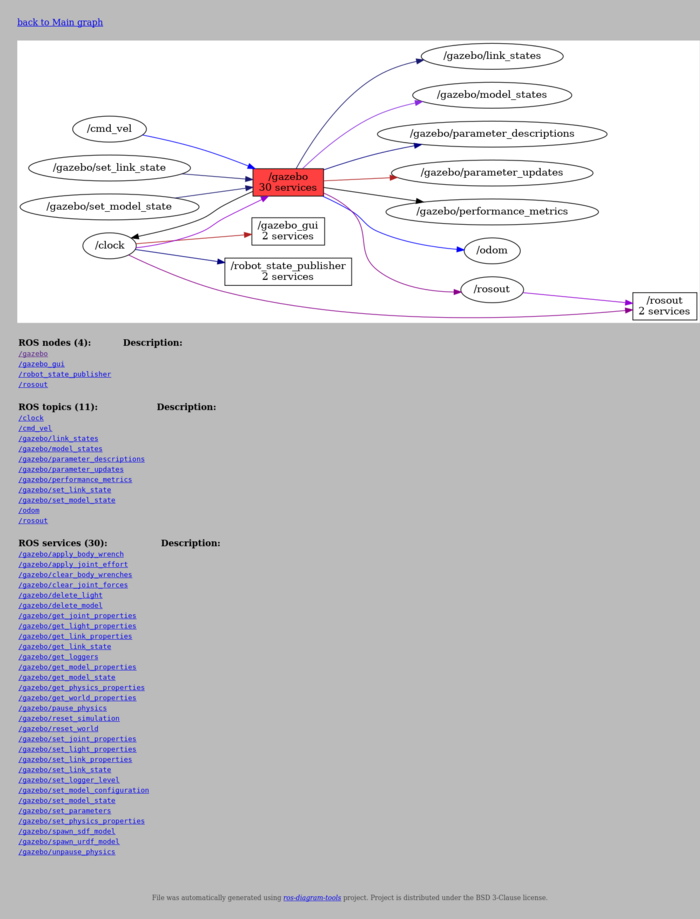
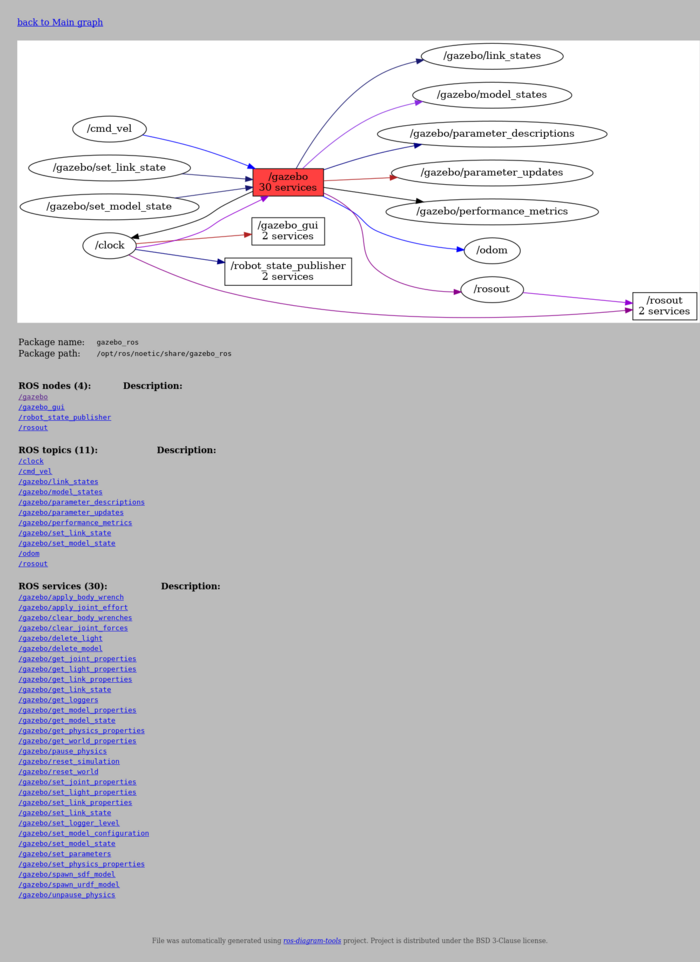
Add package info to nodes graph

Changed region(s): [[0.0, 0.0, 1.0, 0.9445], [0.21, 0.5789, 0.33, 0.6398], [0.39, 0.975, 0.48, 1.0]]

diff --git a/examples/mecanum_simulator/out/nodetree/nodes/n__robot_state_publisher.html b/examples/mecanum_simulator/out/nodetree/nodes/n__robot_state_publisher.html
@@ -64,6 +64,19 @@ Project is distributed under the BSD 3-Clause license.
 </map>
     </div>
 
+    <div class="info_content">
+        <table>
+            <tr>
+                <td>Package name:</td>
+                <td><code>nexus_4wd_mecanum_description</code></td>
+            </tr>
+            <tr>
+                <td>Package path:</td>
+                <td><code>/home/vbox/rosdiagrams/mecanum/catkin_ws/src/nexus_4wd_mecanum_description</code></td>
+            </tr>
+        </table>
+    </div>
+
     <div class="bottom_content">
         <table>
             <tr>

diff --git a/examples/mecanum_simulator/out/nodetree/nodes/n__gazebo.html b/examples/mecanum_simulator/out/nodetree/nodes/n__gazebo.html
@@ -72,6 +72,19 @@ Project is distributed under the BSD 3-Clause license.
 </map>
     </div>
 
+    <div class="info_content">
+        <table>
+            <tr>
+                <td>Package name:</td>
+                <td><code>gazebo_ros</code></td>
+            </tr>
+            <tr>
+                <td>Package path:</td>
+                <td><code>/opt/ros/noetic/share/gazebo_ros</code></td>
+            </tr>
+        </table>
+    </div>
+
     <div class="bottom_content">
         <table>
             <tr>

diff --git a/examples/mecanum_simulator/out/nodetree/nodes/n__gazebo_gui.html b/examples/mecanum_simulator/out/nodetree/nodes/n__gazebo_gui.html
@@ -61,6 +61,19 @@ Project is distributed under the BSD 3-Clause license.
 </map>
     </div>
 
+    <div class="info_content">
+        <table>
+            <tr>
+                <td>Package name:</td>
+                <td><code>gazebo_ros</code></td>
+            </tr>
+            <tr>
+                <td>Package path:</td>
+                <td><code>/opt/ros/noetic/share/gazebo_ros</code></td>
+            </tr>
+        </table>
+    </div>
+
     <div class="bottom_content">
         <table>
             <tr>

diff --git a/src/rosdiagram/tool/rosnodegraph.py b/src/rosdiagram/tool/rosnodegraph.py
@@ -172,6 +172,7 @@ def generate_compact_graph( nodes_dict, show_services=True, labels_dict=None ) -
 
 def generate_pages( nodes_dict, out_dir, nodes_labels=None, nodes_description=None,
                     topics_dump_dir=None, msgs_dump_dir=None, services_dump_dir=None, srvs_dump_dir=None,
+                    nodes_classify_file=None,
                     paint_function=None, main_full_graph=False
                     ):
     if nodes_labels is None:
@@ -197,6 +198,7 @@ def generate_pages( nodes_dict, out_dir, nodes_labels=None, nodes_description=No
 
     subpages_dict = generate_subpages( sub_output_dir, nodes_dict,
                                        topics_dump_dir, msgs_dump_dir, services_dump_dir, srvs_dump_dir,
+                                       nodes_classify_file,
                                        nodes_labels, nodes_description, main_page_link, paint_function=paint_function )
 
     nodes_desc    = nodes_description.get( "node", None )
@@ -227,6 +229,7 @@ def generate_pages( nodes_dict, out_dir, nodes_labels=None, nodes_description=No
 ## returns dict: { <item_id>: <item_data_dict> }
 def generate_subpages( sub_output_dir, nodes_dict,
                        topics_dump_dir, msgs_dump_dir, services_dump_dir, srvs_dump_dir,
+                       nodes_classify_file,
                        nodes_labels, nodes_description, main_page_link, paint_function=None ):
     topics_dict = read_topics( topics_dump_dir )
     if topics_dict is None:
@@ -263,6 +266,17 @@ def generate_subpages( sub_output_dir, nodes_dict,
     topics_desc   = nodes_description.get( "topic", None )
     services_desc = nodes_description.get( "service", None )
 
+    nodes_classify_dict = read_dict( nodes_classify_file )
+    ## transform classification data
+    pkgs_classify_dict = {}
+    for pkg_id, pkg_data in nodes_classify_dict.items():
+        pkg_path = pkg_data.get( "path", "" )
+        pkg_nodes = pkg_data.get( "nodes", [] )
+        for node_id in pkg_nodes:
+            classify_data = pkgs_classify_dict.setdefault( f"n_{node_id}", {} )
+            classify_data[ "package" ] = pkg_id
+            classify_data[ "path" ] = pkg_path
+
     for item_id, item_dict in subpages_dict.items():
         item_graph = item_dict.get( "graph" )
         if item_graph:
@@ -284,6 +298,10 @@ def generate_subpages( sub_output_dir, nodes_dict,
         services_list                = item_dict.get( "services_list", [] )
         item_dict[ "services_list" ] = convert_links_list( services_list, subpages_dict, "",
                                                            nodes_labels, nodes_description=services_desc )
+
+        pkg_classify_data = pkgs_classify_dict.get( item_id, {} )
+        item_dict[ "pkg_name" ] = pkg_classify_data.get( "package", "" )
+        item_dict[ "pkg_path" ] = pkg_classify_data.get( "path", "" )
 
         _LOGGER.info( "preparing page for item %s", item_id )
         template = item_dict.get( "template_name", None )
@@ -391,6 +409,8 @@ def configure_parser( parser ):
                          help="Path to directory containing dumped 'rosservice' output" )
     parser.add_argument( '--srvsdumppath', action='store', required=False, default="",
                          help="Path to directory containing dumped 'rossrv' output" )
+    parser.add_argument( '--classifynodesfile', action='store', required=False, default="",
+                         help="Nodes classification input file" )
     parser.add_argument( '--highlightitems', action='store', required=False, default="", help="File with list of items to highlight" )
     parser.add_argument( '--descriptionjson', action='store', required=False, default="", help="Path to JSON file with items description" )
     parser.add_argument( '-mfg', '--mainfullgraph', action='store_true', help="Generate main full graph instead of compact one" )
@@ -447,6 +467,7 @@ def process_arguments( args, paint_function=None ):
                         msgs_dump_dir=args.msgsdumppath,
                         services_dump_dir=args.servicesdumppath,
                         srvs_dump_dir=args.srvsdumppath,
+                        nodes_classify_file=args.classifynodesfile,
                         paint_function=lambda graph: painter_wrapper( graph, highlight_list, paint_function ),
                         main_full_graph=args.mainfullgraph
                         )

diff --git a/doc/cmd_args_tools.md b/doc/cmd_args_tools.md
@@ -170,6 +170,7 @@ usage: rosdiagramtools.py rosnodegraph [-h] [-la]
                                        [--msgsdumppath MSGSDUMPPATH]
                                        [--servicesdumppath SERVICESDUMPPATH]
                                        [--srvsdumppath SRVSDUMPPATH]
+                                       [--classifynodesfile CLASSIFYNODESFILE]
                                        [--highlightitems HIGHLIGHTITEMS]
                                        [--descriptionjson DESCRIPTIONJSON]
                                        [-mfg] [-iri] [--outraw OUTRAW]
@@ -192,6 +193,8 @@ optional arguments:
                         output
   --srvsdumppath SRVSDUMPPATH
                         Path to directory containing dumped 'rossrv' output
+  --classifynodesfile CLASSIFYNODESFILE
+                        Nodes classification input file
   --highlightitems HIGHLIGHTITEMS
                         File with list of items to highlight
   --descriptionjson DESCRIPTIONJSON
